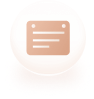
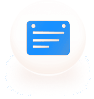
Update button background colors and images

diff --git a/mobile/bob_wap/src/components/logins.vue b/mobile/bob_wap/src/components/logins.vue
@@ -21,7 +21,7 @@
                     </div>
                   </div>
 
-                  <div class="login_btnGroup__37-ja"><button style="background: #cf866b" @click="login" class="login_activeBtn__3wLDx" type="button" data-analytics="button" data-label="登录" data-key="yb_lgn_btn_tap">登录</button></div>
+                  <div class="login_btnGroup__37-ja"><button style="background: #1890ff" @click="login" class="login_activeBtn__3wLDx" type="button" data-analytics="button" data-label="登录" data-key="yb_lgn_btn_tap">登录</button></div>
                   <div class="login_visitorBtn__2xo1h"><a data-analytics="button" @click="$parent.goNav('/')" data-label="先去逛逛" data-key="yb_tour">先去逛逛</a><a @click="$parent.openKefu">在线客服</a></div>
                 </div>
               </div>
@@ -79,7 +79,7 @@
                 </div>
                 <div class="register_ruleContainer__1h-YD"></div>
 
-                <div class="register_btnGroup__1vkHI"><button style="background: #cf866b" class="register_registerBtn__1set3" @click="register" type="button" data-key="yb_rgstr_btn_tap" data-analytics="button" data-label="注册">注册</button></div>
+                <div class="register_btnGroup__1vkHI"><button style="background: #1890ff" class="register_registerBtn__1set3" @click="register" type="button" data-key="yb_rgstr_btn_tap" data-analytics="button" data-label="注册">注册</button></div>
               </div>
             </div>
           </div>

diff --git a/mobile/bob_wap/src/components/applyagent.vue b/mobile/bob_wap/src/components/applyagent.vue
@@ -30,7 +30,7 @@
           <van-field label="联系方式" v-model="info.mobile" placeholder="请输入您的联系方式" />
           <van-field label="申请理由" v-model="info.apply_info" placeholder="请输入申请说明" />
         </van-form>
-        <van-button style="background:#cf866b;color:#fff" @click="shenqing" block >加入我们</van-button>
+        <van-button style="background:#1890ff;color:#fff" @click="shenqing" block >加入我们</van-button>
       </div>
     </div>
   </div>
@@ -126,7 +126,7 @@ export default {
     text-align: center;
     font-size: 12px;
     color: #fff;
-    background-color: #cf866b;
+    background-color: #1890ff;
     border-radius: 4px;
   }
 }

diff --git a/mobile/bob_wap/src/components/vip.vue b/mobile/bob_wap/src/components/vip.vue
@@ -3058,7 +3058,7 @@ export default {
   width: 0.08rem;
   height: 4.48px;
   height: 0.28rem;
-  background: #cf866b;
+  background: #1890ff;
   position: absolute;
   left: -3.84px;
   left: -0.24rem;
@@ -3894,7 +3894,7 @@ p[data-v-f2b5b3f8] {
   height: 16px;
   line-height: 16px;
   border-radius: 50%;
-  background-color: #cf866b;
+  background-color: #1890ff;
   text-align: center;
   color: #fff;
   font-size: 0.28rem;

diff --git a/mobile/bob_wap/src/components/message.vue b/mobile/bob_wap/src/components/message.vue
@@ -119,7 +119,7 @@ export default {
 <style lang="scss" scoped>
 .van-tabs__nav--card .van-tab.van-tab--active {
     color: #fff;
-    background-color: #cf866b;
+    background-color: #1890ff;
 }
 .van-tabs__nav--card {
 

diff --git a/mobile/bob_wap/src/components/betRecord.vue b/mobile/bob_wap/src/components/betRecord.vue
@@ -221,7 +221,7 @@ export default {
       text-align: center;
     }
     .lisga.act {
-      background: #cf866b;
+      background: #1890ff;
       color: #fff;
       border: none;
     }

diff --git a/mobile/bob_wap/src/components/transRecord.vue b/mobile/bob_wap/src/components/transRecord.vue
@@ -237,7 +237,7 @@ export default {
       text-align: center;
     }
     .lisga.act {
-      background: #cf866b;
+      background: #1890ff;
       color: #fff;
       border: none;
     }

diff --git a/mobile/bob_wap/src/components/withdrawal.vue b/mobile/bob_wap/src/components/withdrawal.vue
@@ -481,7 +481,7 @@ export default {
     height: 3px;
     left: calc(50% - 15px);
     z-index: 200;
-    background: #cf866b;
+    background: #1890ff;
     border-radius: 4px;
   }
 }

diff --git a/mobile/bob_wap/src/App.vue b/mobile/bob_wap/src/App.vue
@@ -617,7 +617,7 @@ p {
 
 .van-button--info {
   color: #fff;
-  background-color: #cf866b;
+  background-color: #1890ff;
   border: 1px solid #cf866b;
 }
 </style>
